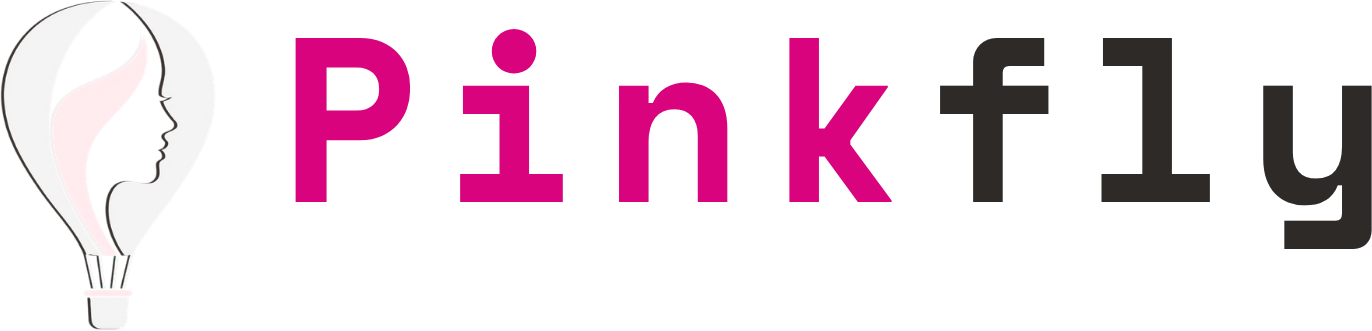
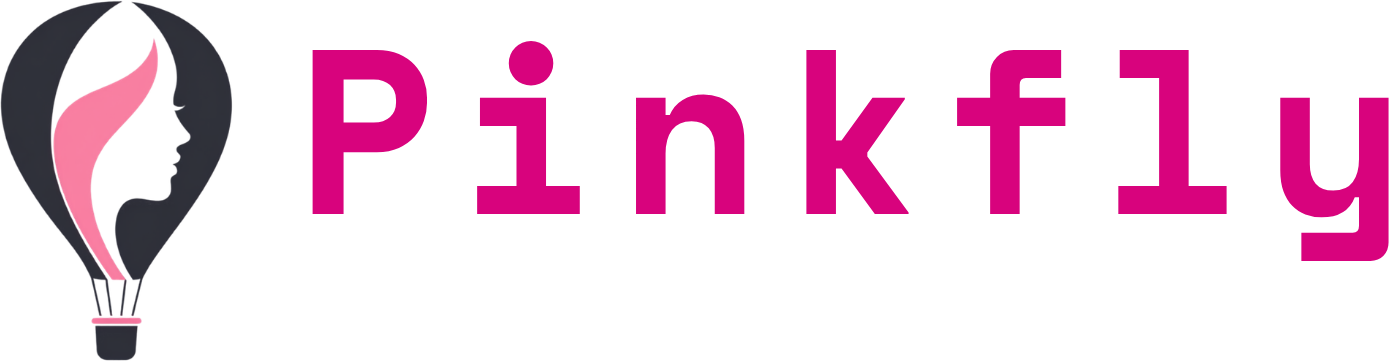
Use each theme's own supplied lockup
The light theme now gets the file drawn for it — pink wordmark throughout,
charcoal balloon, grey tagline — instead of the dark artwork with its cream
re-inked. The dark theme keeps the file uploaded before. Neither is
recoloured any more: each theme shows the colours the brand chose for it.

build-logo.mjs takes two sources rather than one and its only edit is
dropping the tagline for the compact cut. Both files are drawn on the same
2000x2000 canvas with the lockup in the same place — the balloon clears
column 540 in both and the tagline starts past row 1110 in both — so the
two themes line up and nothing moves when the theme changes.

The two files trim to slightly different proportions, because the light
balloon reaches a little further down. Sizing both from the light cut
squeezed the dark one into a box the wrong shape for it, so each variant
now takes its own width and the box takes the wider of the two. Height is
unchanged either way, which is what keeps the bar still.

Verified in both themes: header 179x46 on desktop, 141x34 on a phone, no
overflow at either width.

Claude-Session: https://claude.ai/code/session_018aoutf6w6ZFS459rig7aq6

diff --git a/src/components/shared/Logo.tsx b/src/components/shared/Logo.tsx
@@ -18,8 +18,11 @@ import type { ResolvedImage } from "@/lib/cms/resolve";
  * Dreams" tagline. The tagline is unreadable at navbar height, so the compact
  * cut is the default and the full one is opt-in via `withTagline`.
  *
- * Each cut has an on-light and an on-dark variant — only the neutrals differ,
- * the pink is identical, so the brand colour never shifts between surfaces.
+ * Each cut has an on-light and an on-dark variant, and each is its own
+ * supplied file rather than one recoloured into the other: on light the
+ * wordmark is pink throughout with a charcoal balloon and a grey tagline, on
+ * dark the "fly" and the tagline are cream. The mark and the layout are the
+ * same in both, so nothing shifts between surfaces.
  * Being a raster, the logo can't read the theme tokens, so both variants are
  * rendered and CSS in globals.css shows one: by `data-theme`, or forced to the
  * on-dark variant by `.pf-logo--on-dark` for placements over a dark hero.
@@ -120,8 +123,19 @@ export function LogoMark({
 }: Omit<LogoProps, "href">) {
   const height = heights[size];
   const cut = withTagline ? art.full : art.compact;
-  const width = Math.round((height * cut.light.width) / cut.light.height);
   const alt = withTagline ? "Pinkfly — Building Dreams" : "Pinkfly";
+
+  // Each theme's file is drawn by hand, so the two trim to slightly different
+  // proportions — the light balloon reaches a little further down than the
+  // dark one. Sizing both from the light cut's ratio squeezed the dark one
+  // inside a box that was the wrong shape for it, so each gets its own width
+  // and the box takes the wider of the two. The height is identical either
+  // way, which is what keeps the bar from moving when the theme changes.
+  const widthOf = (img: { width: number; height: number }) =>
+    Math.round((height * img.width) / img.height);
+  const lightWidth = widthOf(cut.light);
+  const darkWidth = widthOf(cut.dark);
+  const width = Math.max(lightWidth, darkWidth);
 
   // An uploaded logo wins, and both themes are drawn the same way as the
   // shipped artwork: one for each, with CSS showing the right one, so the
@@ -180,21 +194,21 @@ export function LogoMark({
       <Image
         src={cut.light}
         alt={alt}
-        width={width}
+        width={lightWidth}
         height={height}
         priority={priority}
         className="pf-logo__on-light object-contain"
-        style={{ width, height }}
+        style={{ width: lightWidth, height }}
       />
       <Image
         src={cut.dark}
         alt=""
         aria-hidden
-        width={width}
+        width={darkWidth}
         height={height}
         priority={priority}
         className="pf-logo__on-dark object-contain"
-        style={{ width, height }}
+        style={{ width: darkWidth, height }}
       />
     </span>
   );
